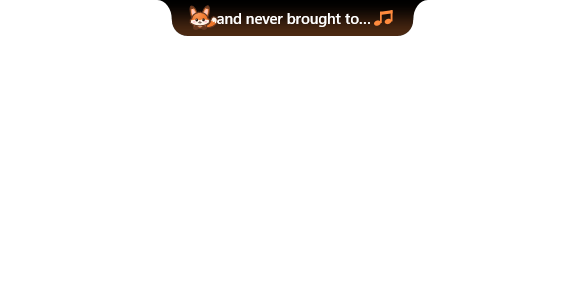
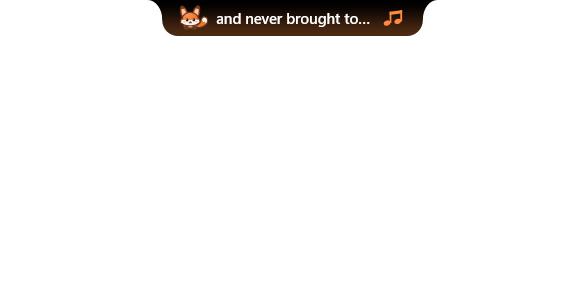
v0.3.4: add symmetric breathing room between mascot and clock/lyrics in collapsed notch

Changed region(s): [[0.2462, 0.0, 0.7385, 0.1423]]

diff --git a/src/render.rs b/src/render.rs
@@ -54,9 +54,9 @@ pub const CANVAS_H: f32 = 250.0;
 const COLLAPSED_H: f32 = 32.0;
 /// Collapsed clock row: margin at each end, the inset when the fox or the
 /// album art sits on the left, and the room the music bars add on the right.
-const CLOCK_PAD: f32 = 13.0;
-const CLOCK_ICON_IN: f32 = 38.0;
-const CLOCK_BARS: f32 = 22.0;
+const CLOCK_PAD: f32 = 15.0;
+const CLOCK_ICON_IN: f32 = 48.0;
+const CLOCK_BARS: f32 = 26.0;
 const EXPANDED_W: f32 = 470.0;
 const EXPANDED_H: f32 = 232.0;
 
@@ -579,7 +579,7 @@ impl Renderer {
         let (target, mut collapsed_h) = if idle_minimal {
             (lerp(120.0, 180.0, hud_t), lerp(10.0, COLLAPSED_H, hud_t))
         } else if let Some(line) = lyric_now {
-            ((self.measure(line, &self.f.lyric_small) + 92.0).clamp(200.0, 470.0), COLLAPSED_H)
+            ((self.measure(line, &self.f.lyric_small) + 104.0).clamp(210.0, 470.0), COLLAPSED_H)
         } else {
             (row_w + if bars_on { CLOCK_BARS } else { 0.0 }, COLLAPSED_H)
         };
@@ -686,7 +686,7 @@ impl Renderer {
                         self.art(s.media.art.as_deref(), art, 5.0, a_clock)?;
                     }
                     self.note(x0 + w - 25.0, COLLAPSED_H / 2.0, s.theme.accent, a_clock)?;
-                    let (lo, hi) = (x0 + 40.0, x0 + w - 40.0);
+                    let (lo, hi) = (x0 + 48.0, x0 + w - 48.0);
                     let mid = (lo + hi) / 2.0;
                     let room = (hi - lo).max(10.0);
                     // The new line rises in from below while the one before it
